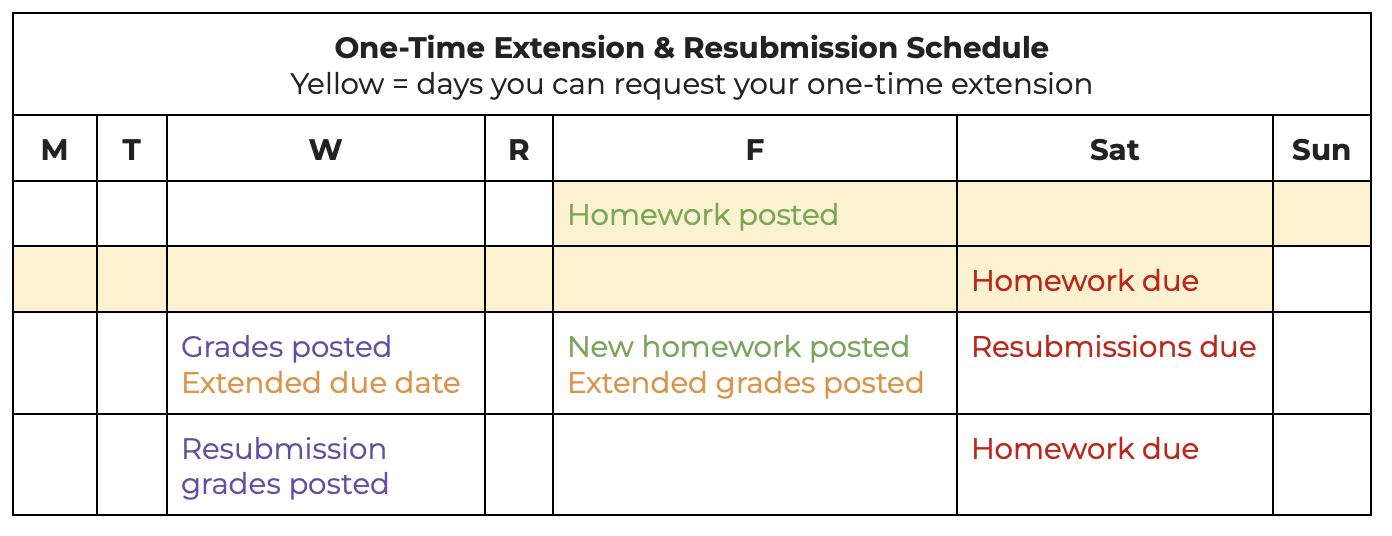
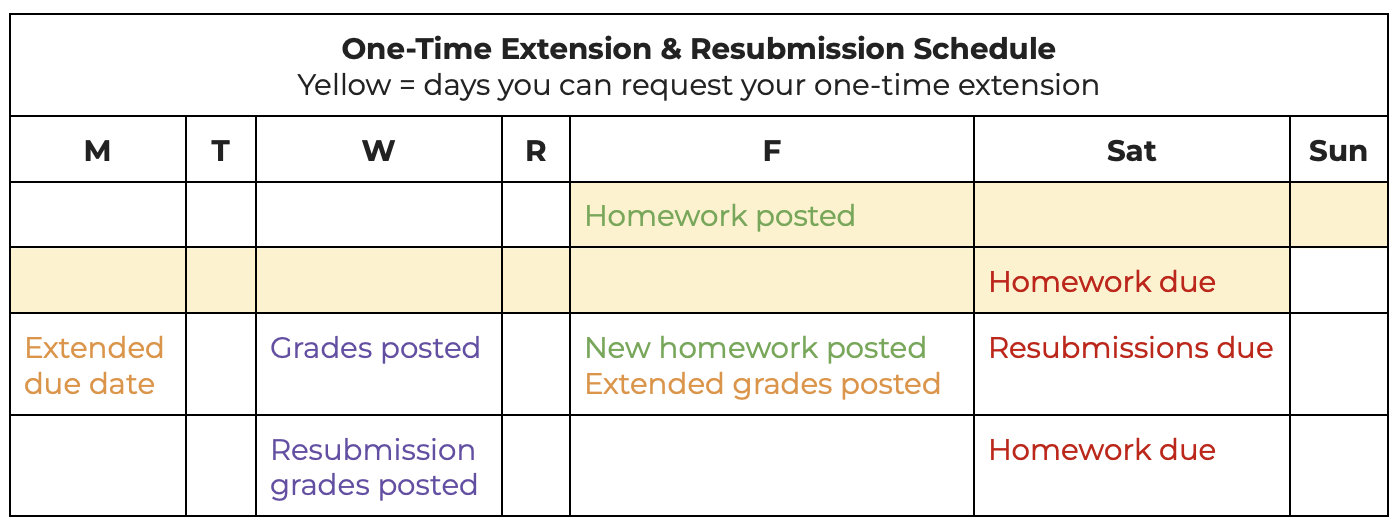
Updates to setup guides post-class

Changed region(s): [[0.0, 0.0302, 1.0, 0.9962], [0.2162, 0.0604, 0.8032, 0.1811], [0.0, 0.0, 0.9885, 0.0302]]

diff --git a/docs/setup/setup-conda-env.html b/docs/setup/setup-conda-env.html
@@ -7,7 +7,7 @@
 <meta name="viewport" content="width=device-width, initial-scale=1.0, user-scalable=yes">
 
 
-<title>Build conda environment for the course – EDS 220 - Working with Environmental Datasets</title>
+<title>Build conda environment and add Jupyter kernel – EDS 220 - Working with Environmental Datasets</title>
 <style>
 code{white-space: pre-wrap;}
 span.smallcaps{font-variant: small-caps;}
@@ -180,15 +180,25 @@ pre > code.sourceCode > span > a:first-child::before { text-decoration: underlin
 <div id="quarto-content" class="quarto-container page-columns page-rows-contents page-layout-article page-navbar">
 <!-- sidebar -->
 <!-- margin-sidebar -->
-    <div id="quarto-margin-sidebar" class="sidebar margin-sidebar zindex-bottom">
-        
+    <div id="quarto-margin-sidebar" class="sidebar margin-sidebar">
+        <nav id="TOC" role="doc-toc" class="toc-active">
+    <h2 id="toc-title">On this page</h2>
+   
+  <ul>
+  <li><a href="#build-conda-environment" id="toc-build-conda-environment" class="nav-link active" data-scroll-target="#build-conda-environment">Build conda environment</a></li>
+  <li><a href="#section" id="toc-section" class="nav-link" data-scroll-target="#section"></a>
+  <ul class="collapse">
+  <li><a href="#add-jupyter-kernel" id="toc-add-jupyter-kernel" class="nav-link" data-scroll-target="#add-jupyter-kernel">Add Jupyter kernel</a></li>
+  </ul></li>
+  </ul>
+</nav>
     </div>
 <!-- main -->
 <main class="content" id="quarto-document-content">
 
 <header id="title-block-header" class="quarto-title-block default">
 <div class="quarto-title">
-<h1 class="title">Build conda environment for the course</h1>
+<h1 class="title">Build conda environment and add Jupyter kernel</h1>
 </div>
 
 
@@ -205,7 +215,24 @@ pre > code.sourceCode > span > a:first-child::before { text-decoration: underlin
 </header>
 
 
-<p><em>Make sure you have completed the <a href="../setup/setup-vscode.html">VSCode set-up</a> before creating the environment.</em></p>
+<section id="build-conda-environment" class="level2">
+<h2 class="anchored" data-anchor-id="build-conda-environment">Build conda environment</h2>
+<div class="callout callout-style-default callout-important callout-titled">
+<div class="callout-header d-flex align-content-center">
+<div class="callout-icon-container">
+<i class="callout-icon"></i>
+</div>
+<div class="callout-title-container flex-fill">
+Set up VSCode before moving on!
+</div>
+</div>
+<div class="callout-body-container callout-body">
+<p>Make sure you have completed the <a href="../setup/setup-vscode.html">VSCode set-up</a> before creating the environment.</p>
+</div>
+</div>
+</section>
+<section id="section" class="level1">
+<h1></h1>
 <ol type="1">
 <li><p>Open VSCode on your computer.</p></li>
 <li><p>Download the following YAML file and move it into your <code>eds220-in-class</code> directory: <a href="https://github.com/MEDS-eds-220/MEDS-eds-220-course/blob/main/eds220-env.yml">https://github.com/MEDS-eds-220/MEDS-eds-220-course/blob/main/eds220-env.yml</a></p></li>
@@ -224,8 +251,61 @@ pre > code.sourceCode > span > a:first-child::before { text-decoration: underlin
 <figcaption>NUXtocat by <a href="https://github.com/cameronfoxly">cameronfoxly</a>. Octocat is a registered trademark of GitHub, Inc.; the octocat images are not covered by this website’s CC BY-NC 4.0 license.</figcaption>
 </figure>
 </div>
+<section id="add-jupyter-kernel" class="level2">
+<h2 class="anchored" data-anchor-id="add-jupyter-kernel">Add Jupyter kernel</h2>
+<div class="callout callout-style-default callout-important callout-titled">
+<div class="callout-header d-flex align-content-center">
+<div class="callout-icon-container">
+<i class="callout-icon"></i>
+</div>
+<div class="callout-title-container flex-fill">
+Build the environment before moving on!
+</div>
+</div>
+<div class="callout-body-container callout-body">
+<p>Make sure you have <a href="../setup/setup-conda-env.html">built the <code>eds220-env</code></a> before creating the kernel.</p>
+</div>
+</div>
+<ol type="1">
+<li><p>Open VSCode on your computer.</p></li>
+<li><p>Add a new bash terminal in it.</p></li>
+<li><p>Verify you have the <code>eds220-env</code> conda environment available by running</p></li>
+</ol>
+<div class="sourceCode" id="cb2"><pre class="sourceCode bash code-with-copy"><code class="sourceCode bash"><span id="cb2-1"><a href="#cb2-1" aria-hidden="true" tabindex="-1"></a><span class="ex">conda</span> env list</span></code><button title="Copy to Clipboard" class="code-copy-button"><i class="bi"></i></button></pre></div>
+<ol start="4" type="1">
+<li>Activate the <code>eds220-env</code> by running</li>
+</ol>
+<div class="sourceCode" id="cb3"><pre class="sourceCode bash code-with-copy"><code class="sourceCode bash"><span id="cb3-1"><a href="#cb3-1" aria-hidden="true" tabindex="-1"></a><span class="ex">conda</span> activate eds220-env</span></code><button title="Copy to Clipboard" class="code-copy-button"><i class="bi"></i></button></pre></div>
+<ol start="5" type="1">
+<li><p>Verify the environment has been activated.</p></li>
+<li><p>Run</p></li>
+</ol>
+<div class="sourceCode" id="cb4"><pre class="sourceCode bash code-with-copy"><code class="sourceCode bash"><span id="cb4-1"><a href="#cb4-1" aria-hidden="true" tabindex="-1"></a><span class="ex">python</span> <span class="at">-m</span> ipykernel install <span class="at">--user</span> <span class="at">--name</span> eds220-env <span class="at">--display-name</span> <span class="st">"EDS-220 env"</span></span></code><button title="Copy to Clipboard" class="code-copy-button"><i class="bi"></i></button></pre></div>
+<ol start="7" type="1">
+<li>Verify that the kernel has been created by running</li>
+</ol>
+<div class="sourceCode" id="cb5"><pre class="sourceCode bash code-with-copy"><code class="sourceCode bash"><span id="cb5-1"><a href="#cb5-1" aria-hidden="true" tabindex="-1"></a><span class="ex">jupyter</span> kernelspec list</span></code><button title="Copy to Clipboard" class="code-copy-button"><i class="bi"></i></button></pre></div>
+<p>The output should look similar to this:</p>
+<div class="sourceCode" id="cb6"><pre class="sourceCode bash code-with-copy"><code class="sourceCode bash"><span id="cb6-1"><a href="#cb6-1" aria-hidden="true" tabindex="-1"></a><span class="ex">Available</span> kernels:</span>
+<span id="cb6-2"><a href="#cb6-2" aria-hidden="true" tabindex="-1"></a>  <span class="ex">eds220-env</span>        /Users/galaz-garcia/Library/Jupyter/kernels/eds220-env</span>
+<span id="cb6-3"><a href="#cb6-3" aria-hidden="true" tabindex="-1"></a>  <span class="ex">python3</span>           /Users/galaz-garcia/opt/anaconda3/share/jupyter/kernels/python3</span></code><button title="Copy to Clipboard" class="code-copy-button"><i class="bi"></i></button></pre></div>
+<ol start="8" type="1">
+<li><p>Close and reopen VSCode.</p></li>
+<li><p>To use the new kernel, open a Jupyter notebook on VSCode and…</p></li>
+</ol>
+<p><img src="images/kernel-1.png" class="img-fluid" style="width:90.0%"></p>
+<p><img src="images/kernel-2.png" class="img-fluid" style="width:90.0%"></p>
+<p><img src="images/kernel-3.png" class="img-fluid" style="width:90.0%"></p>
+<div class="quarto-figure quarto-figure-center">
+<figure class="figure">
+<p><img src="images/labtocat.png" class="img-fluid figure-img" style="width:50.0%"></p>
+<figcaption>Labtocat by <a href="https://github.com/JohnCreek">JohnCreek</a>. Octocat is a registered trademark of GitHub, Inc.; the octocat images are not covered by this website’s CC BY-NC 4.0 license.</figcaption>
+</figure>
+</div>
 
 
+</section>
+</section>
 
 </main> <!-- /main -->
 <script id="quarto-html-after-body" type="application/javascript">

diff --git a/docs/setup/setup-pat.html b/docs/setup/setup-pat.html
@@ -7,7 +7,7 @@
 <meta name="viewport" content="width=device-width, initial-scale=1.0, user-scalable=yes">
 
 
-<title>Storing your PAT in the server – EDS 220 - Working with Environmental Datasets</title>
+<title>Creating a PAT and storing it in the server – EDS 220 - Working with Environmental Datasets</title>
 <style>
 code{white-space: pre-wrap;}
 span.smallcaps{font-variant: small-caps;}
@@ -185,10 +185,19 @@ pre > code.sourceCode > span > a:first-child::before { text-decoration: underlin
     <h2 id="toc-title">On this page</h2>
    
   <ul>
-  <li><a href="#have-a-pat-ready" id="toc-have-a-pat-ready" class="nav-link active" data-scroll-target="#have-a-pat-ready">1. Have a PAT ready</a></li>
+  <li><a href="#creating-a-pat" id="toc-creating-a-pat" class="nav-link active" data-scroll-target="#creating-a-pat">Creating a PAT</a>
+  <ul class="collapse">
+  <li><a href="#get-to-the-github-pat-creation-website" id="toc-get-to-the-github-pat-creation-website" class="nav-link" data-scroll-target="#get-to-the-github-pat-creation-website">1. Get to the GitHub PAT creation website</a></li>
+  <li><a href="#select-options-and-generate-pat" id="toc-select-options-and-generate-pat" class="nav-link" data-scroll-target="#select-options-and-generate-pat">2. Select options and generate PAT</a></li>
+  <li><a href="#temporarily-save-the-pat" id="toc-temporarily-save-the-pat" class="nav-link" data-scroll-target="#temporarily-save-the-pat">3. Temporarily save the PAT</a></li>
+  </ul></li>
+  <li><a href="#storing-a-pat-in-the-server" id="toc-storing-a-pat-in-the-server" class="nav-link" data-scroll-target="#storing-a-pat-in-the-server">Storing a PAT in the server</a>
+  <ul class="collapse">
+  <li><a href="#have-a-pat-ready" id="toc-have-a-pat-ready" class="nav-link" data-scroll-target="#have-a-pat-ready">1. Have a PAT ready</a></li>
   <li><a href="#set-up-the-git-credential-helper" id="toc-set-up-the-git-credential-helper" class="nav-link" data-scroll-target="#set-up-the-git-credential-helper">2. Set up the git credential helper</a></li>
   <li><a href="#complete-a-push" id="toc-complete-a-push" class="nav-link" data-scroll-target="#complete-a-push">3. Complete a push</a></li>
   <li><a href="#verify-credentials" id="toc-verify-credentials" class="nav-link" data-scroll-target="#verify-credentials">4. Verify credentials</a></li>
+  </ul></li>
   </ul>
 </nav>
     </div>
@@ -197,7 +206,7 @@ pre > code.sourceCode > span > a:first-child::before { text-decoration: underlin
 
 <header id="title-block-header" class="quarto-title-block default">
 <div class="quarto-title">
-<h1 class="title">Storing your PAT in the server</h1>
+<h1 class="title">Creating a PAT and storing it in the server</h1>
 </div>
 
 
@@ -215,9 +224,43 @@ pre > code.sourceCode > span > a:first-child::before { text-decoration: underlin
 
 
 <p>To store your personal access token (PAT) in the server:</p>
+<section id="creating-a-pat" class="level1">
+<h1>Creating a PAT</h1>
+<section id="get-to-the-github-pat-creation-website" class="level2">
+<h2 class="anchored" data-anchor-id="get-to-the-github-pat-creation-website">1. Get to the GitHub PAT creation website</h2>
+<p>On the GitHub website navigate to:</p>
+<ul>
+<li>settings</li>
+<li>developer settings (last option on the left)</li>
+<li>Personal access tokens</li>
+<li>tokens (classic)</li>
+<li>generate new token button (classic) (near right corner)</li>
+</ul>
+<p><strong>Click on:</strong> Generate new token (classic)</p>
+</section>
+<section id="select-options-and-generate-pat" class="level2">
+<h2 class="anchored" data-anchor-id="select-options-and-generate-pat">2. Select options and generate PAT</h2>
+<p>Select the following options:</p>
+<ul class="task-list">
+<li><label><input type="checkbox">Repo (clicking this will select all boxes in the section, that’s ok)</label></li>
+<li><label><input type="checkbox">workflow</label></li>
+<li><label><input type="checkbox">gist</label></li>
+<li><label><input type="checkbox">user (clicking this will select all boxes in the section, that’s ok)</label></li>
+</ul>
+<p><em>Note: this is the same process as using <code>usethis::create_github_token</code> from an R console outlined in the <a href="https://ucsb-meds.github.io/MEDS-installation-guide/">MEDS installation guide</a>. Here we selected the same options for the PAT as given by <code>usethis::create_github_token</code>.</em></p>
+<p><strong>Click on:</strong> Generate token</p>
+</section>
+<section id="temporarily-save-the-pat" class="level2">
+<h2 class="anchored" data-anchor-id="temporarily-save-the-pat">3. Temporarily save the PAT</h2>
+<p>Copy and paste the PAT somewhere for now! You will need to use it when pushing for the first time. After this, you should delete that note where you temporariliy wrote down the PAT.</p>
+<p><br></p>
+</section>
+</section>
+<section id="storing-a-pat-in-the-server" class="level1">
+<h1>Storing a PAT in the server</h1>
 <section id="have-a-pat-ready" class="level2">
 <h2 class="anchored" data-anchor-id="have-a-pat-ready">1. Have a PAT ready</h2>
-<p>If you already have a PAT that you can copy paste, you can skip to step 2. Otherwise, create or regenerate one. You can follow the instructions in the <a href="https://ucsb-meds.github.io/MEDS-installation-guide/#GitHub-PAT">MEDS installation guide</a> or create or regenerate one directly through GitHub.</p>
+<p>If you already have a PAT that you can copy paste, you can skip to step 2. Otherwise, create or regenerate one. Otherwise, you can follow the instructions above or regenerate one directly through GitHub.</p>
 </section>
 <section id="set-up-the-git-credential-helper" class="level2">
 <h2 class="anchored" data-anchor-id="set-up-the-git-credential-helper">2. Set up the git credential helper</h2>
@@ -256,6 +299,7 @@ pre > code.sourceCode > span > a:first-child::before { text-decoration: underlin
 </div>
 
 
+</section>
 </section>
 
 </main> <!-- /main -->

diff --git a/docs/setup/setup-landing.html b/docs/setup/setup-landing.html
@@ -171,34 +171,34 @@ ul.task-list li input[type="checkbox"] {
 
 
 <p>The following sections cover setups needed for the course.</p>
-<p>If you are not in MEDS and want to use these course materials, jump to steps 4, 5, and 6.</p>
+<p>If you are not in MEDS and want to use these course materials, jump to steps 5 and 6.</p>
+<div style="text-align: center;">
+<p><a href="../setup/setup-in-class-repo.html"><img src="images/manufacturetocat.png" class="img-fluid" alt="Scubatocat octocat" width="200"></a></p>
+<p><a href="../discussion-sections/ds0-sections-setup.html">1. Setup of GitHub repository for <em>discussion sections</em> coding sessions</a></p>
+</div>
 <div style="text-align: center;">
 <p><a href="../setup/setup-in-class-repo.html"><img src="images/scubatocat.png" class="img-fluid" alt="Scubatocat octocat" width="200"></a></p>
-<p><a href="../setup/setup-in-class-repo.html">1. Setup of GitHub repository for in-class coding sessions</a></p>
+<p><a href="../setup/setup-in-class-repo.html">2. Setup of GitHub repository for <em>in-class</em> coding sessions</a></p>
 </div>
 <div style="text-align: center;">
 <p><a href="../setup/setup-pat.html"><img src="images/mona-lovelace.jpg" class="img-fluid" alt="Mona Lovelace octocat" width="200"></a></p>
-<p><a href="../setup/setup-pat.html">2. Storing your PAT in the server</a></p>
+<p><a href="../setup/setup-pat.html">3. Creating a PAT and storing it in the server</a></p>
 </div>
 <div style="text-align: center;">
 <p><a href="../setup/setup-gitignore.html"><img src="images/skatetocat.png" class="img-fluid" alt="Skatetocat octocat" width="200"></a></p>
-<p><a href="../setup/setup-gitignore.html">3. Edit .gitignore file through terminal</a></p>
+<p><a href="../setup/setup-gitignore.html">4. Edit .gitignore file through terminal</a></p>
 </div>
 <div style="text-align: center;">
 <p><a href="../setup/setup-vscode.html"><img src="images/universetocat.png" class="img-fluid" alt="Universetocat octocat" width="200"></a></p>
-<p><a href="../setup/setup-vscode.html">4. VSCode set-up</a></p>
+<p><a href="../setup/setup-vscode.html">5. VSCode set-up</a></p>
 </div>
 <div style="text-align: center;">
 <p><a href="../setup/setup-conda-env.html"><img src="images/nuxtocat.png" class="img-fluid" alt="NUXtocat octocat" width="200"></a></p>
-<p><a href="../setup/setup-conda-env.html">5. Build conda environment for the course</a></p>
-</div>
-<div style="text-align: center;">
-<p><a href="../setup/setup-jupyter-kernel.html"><img src="images/labtocat.png" class="img-fluid" alt="Labtocat octocat" width="200"></a></p>
-<p><a href="../setup/setup-jupyter-kernel.html">6. Add Jupyter kernel for course environment</a></p>
+<p><a href="../setup/setup-conda-env.html">6. Build conda environment and add Jupyter kernel</a></p>
 </div>
 <p><br></p>
 <div class="text-muted" style="text-align: center; font-size: 0.8em;">
-<p>Octocats from the <a href="https://octodex.github.com">GitHub Octodex</a>: Scubatocat, Universetocat and NUXtocat by <a href="https://github.com/cameronfoxly">cameronfoxly</a>; Mona Lovelace by <a href="https://github.com/heyhayhay">heyhayhay</a>; Skatetocat by <a href="https://github.com/suziejurado">suziejurado</a>; Labtocat by <a href="https://github.com/JohnCreek">JohnCreek</a>. Octocat is a registered trademark of GitHub, Inc.; the octocat images are not covered by this website’s CC BY-NC 4.0 license.</p>
+<p>Octocats from the <a href="https://octodex.github.com">GitHub Octodex</a>: Scubatocat, Universetocat and NUXtocat by <a href="https://github.com/cameronfoxly">cameronfoxly</a>; Mona Lovelace and Manufacturetocat by <a href="https://github.com/heyhayhay">heyhayhay</a>; Skatetocat by <a href="https://github.com/suziejurado">suziejurado</a>; Labtocat by <a href="https://github.com/JohnCreek">JohnCreek</a>. Octocat is a registered trademark of GitHub, Inc.; the octocat images are not covered by this website’s CC BY-NC 4.0 license.</p>
 </div>
 
 

diff --git a/docs/slides/syllabus-slides.html b/docs/slides/syllabus-slides.html
@@ -383,7 +383,6 @@ Introductions
 <li class="fragment">✅ <strong>Cultivate understanding:</strong> You should be able to fully understand, justify, and explain all the work you submit.</li>
 <li class="fragment">🤔 <strong>Question AI outputs:</strong> The default should be to assume the answers you get from generative AI are incorrect and you must verify any information the platform generates.</li>
 <li class="fragment">🚫 <strong>Academic integrity:</strong> Submitting work you don’t understand or can’t explain or justify will be considered plagiarism, regardless of whether you have disclosed the use of generative AI or not.</li>
-<li class="fragment">📄 <strong>Document any AI use:</strong> If you do end up using generative AI in your work, you will need to complete and submit a “Generative AI Use Documentation” form and include it with your assignment.</li>
 </ul>
 <p><strong>If there are concerns about AI use in your work, your instructor will ask you to meet and talk it through.</strong></p>
 <p>If understanding is clearly lacking and this is the first time this happens, you’ll have the chance to revise and resubmit your work for 50% of the original maximum grade within two days.</p>

diff --git a/docs/discussion-sections/ds0-sections-setup.html b/docs/discussion-sections/ds0-sections-setup.html
@@ -361,17 +361,12 @@ Prompted for your username? Abort the push!
 <h2 class="anchored" data-anchor-id="configure-github-credentials-if-needed">5. Configure GitHub credentials (if needed)</h2>
 <p>In this step you will need to create a personal access token (PAT) and configure your GitHub credentials before trying to push your changes.</p>
 <ol type="a">
-<li><p>Follow steps 6 and 7 in the <a href="https://ucsb-meds.github.io/MEDS-installation-guide/#configure-git">MEDS setup guide</a> to create a new PAT.</p></li>
+<li><p>Follow <a href="../setup/setup-pat.html">this setup guide</a> to create and store a new PAT.</p></li>
 <li><p>Once you have created your PAT, do <code>git push</code> again, enter your credentials (the PAT will be your password), and push your changes.</p></li>
 </ol>
 <p style="text-align: center;">
 <strong>MAKE SURE YOU’VE SUCCESSFULLY PUSHED YOUR UPDATES BEFORE ENDING</strong>
 </p>
-<!--
-Talk about setting a PAT.
-
-3. If you are prompted for your credentials and need to set up a new Personal Access Token (PAT) follow [steps 13-18 in this guide](https://docs.google.com/document/d/1Pk6_rUDdFjdGg-YVo9Cl8ET3iDsYahyaP0VMRD4UHUk/edit?usp=sharing/) to set it up.
--->
 
 
 </section>

diff --git a/docs/discussion-sections/discussion-sections-listing.html b/docs/discussion-sections/discussion-sections-listing.html
@@ -262,7 +262,7 @@ topic
 </thead>
 <tbody class="list">
 
-<tr data-index="0" data-listing-file-modified-sort="1790206376548" data-listing-reading-time-sort="6" data-listing-word-count-sort="1068" data-listing-title-sort="Repository setup" data-listing-filename-sort="ds0-sections-setup.qmd">
+<tr data-index="0" data-listing-file-modified-sort="1790286741456" data-listing-reading-time-sort="6" data-listing-word-count-sort="1032" data-listing-title-sort="Repository setup" data-listing-filename-sort="ds0-sections-setup.qmd">
 <td>
 <span class="listing-image"><img loading="lazy" src="../discussion-sections/images/ds0-manufacturetocat.png" style="height: 150px;"></span>
 </td>
